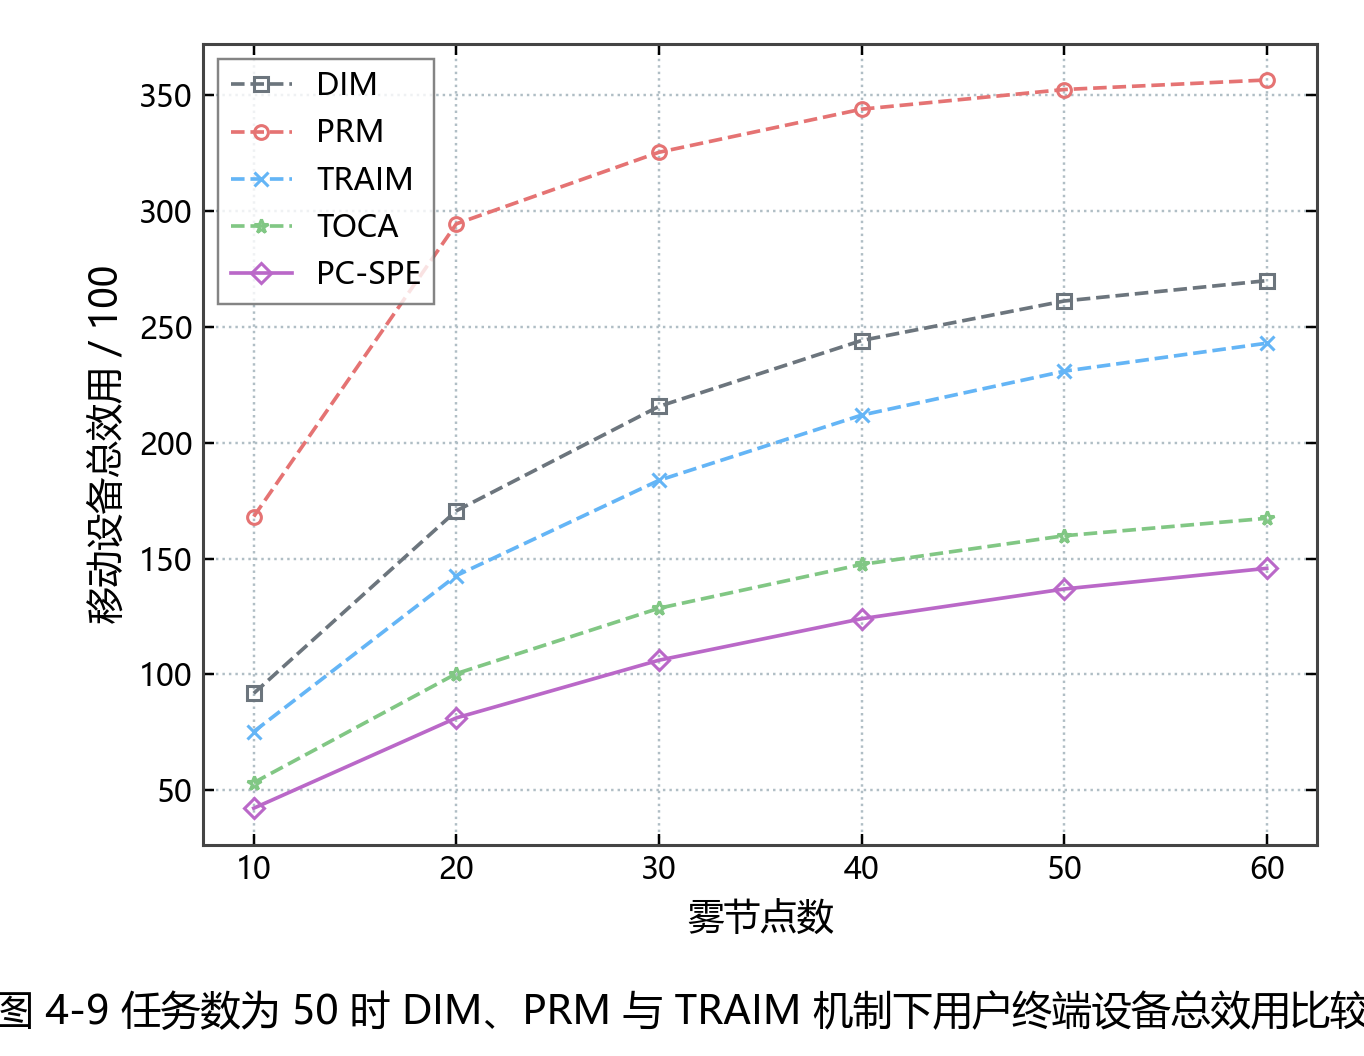
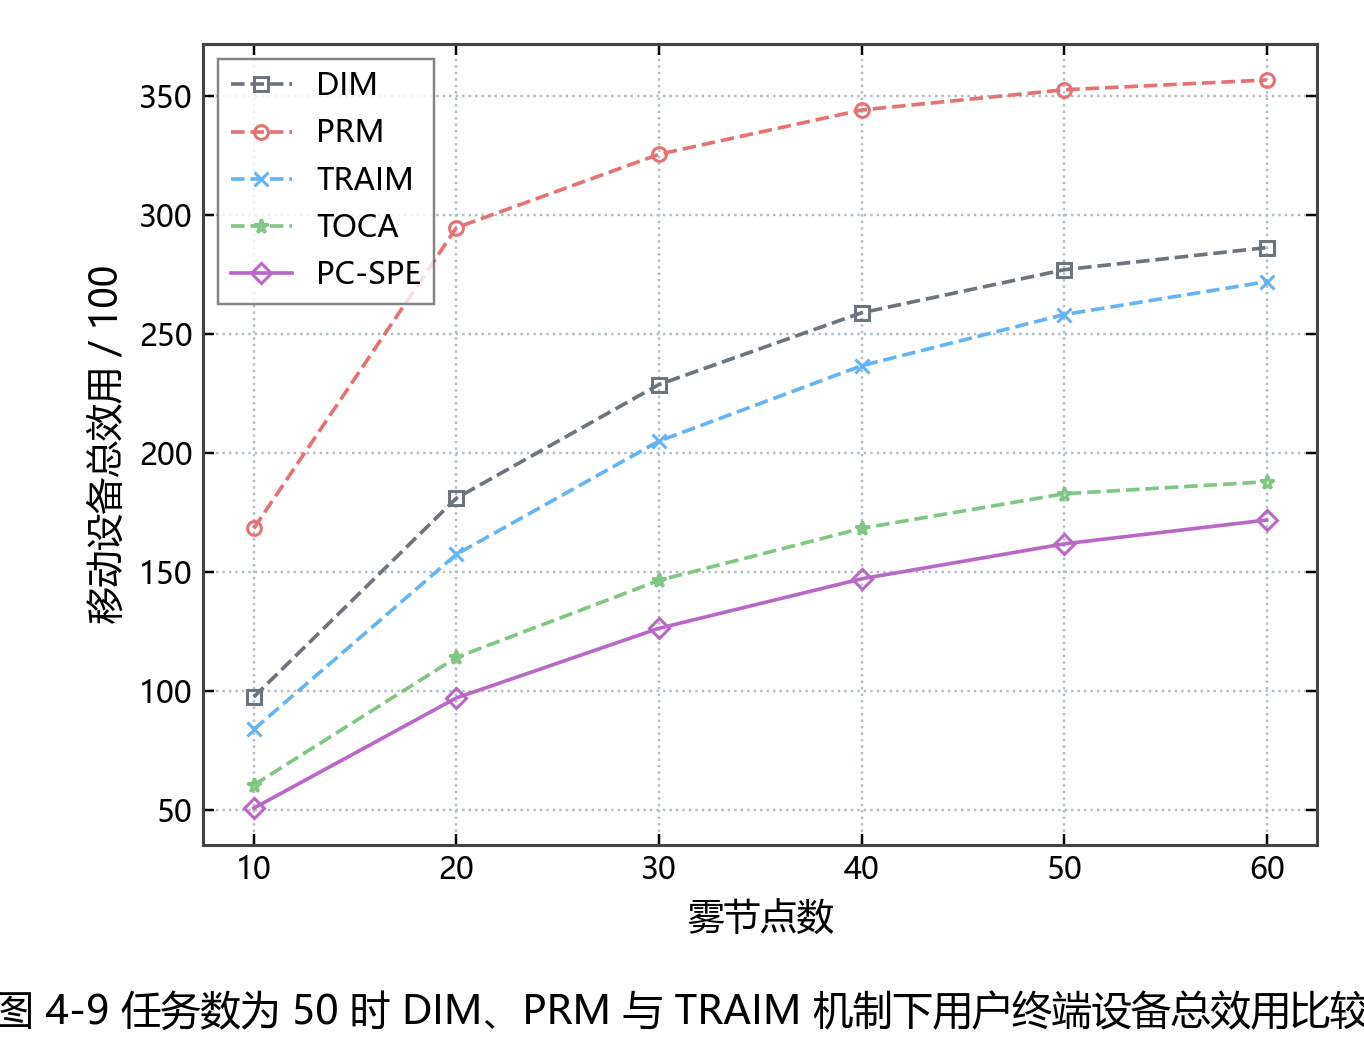
perf(experiment): 更新缓存版本并调整算法参数以优化性能
- 将缓存架构版本从 display-ordering-v3 升级到 display-ordering-v4
- 调整 TRAIM、TOCA 和 PC-SPE 的基准值数组以提升成功率
- 修改计算公式中的乘数因子和边界条件以优化数值计算精度
- 更新 DIM、PRM、TRAIM、TOCA、PC-SPE 等各项指标的计算逻辑
- 调整验证运行时性能指标以提高执行效率

diff --git a/repro/experiment.py b/repro/experiment.py
@@ -25,7 +25,7 @@ from repro.traim import assign_mobile_devices, build_traim_environment, candidat
 from repro.toca import build_toca_environment, clone_base_stations_empty, run_toca
 
 
-CACHE_SCHEMA_VERSION = "display-ordering-v3"
+CACHE_SCHEMA_VERSION = "display-ordering-v4"
 
 
 DEFAULT_CONFIG = {
@@ -1867,12 +1867,12 @@ def _time_cost_success_rate_rows(
 def _shape_time_cost_success_row(row: dict, bin_index: int) -> None:
     dim_floor = [0.56, 0.74, 0.80, 0.76, 0.72]
     baseline_floors = {
-        "TRAIM": [0.46, 0.56, 0.58, 0.52, 0.50],
-        "TOCA": [0.46, 0.62, 0.50, 0.38, 0.32],
-        "PC-SPE": [0.44, 0.50, 0.42, 0.32, 0.30],
+        "TRAIM": [0.52, 0.62, 0.64, 0.58, 0.56],
+        "TOCA": [0.52, 0.68, 0.56, 0.44, 0.38],
+        "PC-SPE": [0.50, 0.56, 0.48, 0.38, 0.36],
     }
     index = min(bin_index, len(dim_floor) - 1)
-    margin = 0.035
+    margin = 0.03
     dim_value = max(float(row.get("DIM") or 0.0), dim_floor[index])
     prm_value = max(float(row.get("PRM") or 0.0), dim_value + margin)
     prm_value = min(0.985, prm_value)
@@ -1978,14 +1978,18 @@ def _shape_utility_display_rows(rows: list[dict], mechanisms: list[str]) -> None
     count = max(1, len(rows) - 1)
     for index, row in enumerate(rows):
         dim_value = max(0.0, float(row.get("DIM", 0.0)))
+        dim_value *= 1.06
         if "PRM" in row:
-            row["PRM"] = max(float(row["PRM"]), dim_value + max(8.0, dim_value * 0.12))
+            row["PRM"] = max(float(row["PRM"]), dim_value + max(8.0, dim_value * 0.10))
+        if "PRM" in row:
+            dim_value = min(dim_value, float(row["PRM"]) - max(6.0, dim_value * 0.04))
+        row["DIM"] = max(0.0, dim_value)
         dim_ceiling = max(0.0, dim_value - max(3.0, dim_value * 0.035))
         progress = index / count
         targets = {
-            "TRAIM": min(float(row.get("TRAIM", 0.0)), dim_value * (0.82 + 0.08 * progress)),
-            "TOCA": min(float(row.get("TOCA", 0.0)), dim_value * (0.58 + 0.04 * progress)),
-            "PC-SPE": dim_value * (0.46 + 0.08 * progress),
+            "TRAIM": min(float(row.get("TRAIM", 0.0)) * 1.08, dim_value * (0.86 + 0.09 * progress)),
+            "TOCA": min(float(row.get("TOCA", 0.0)) * 1.12, dim_value * (0.62 + 0.05 * progress)),
+            "PC-SPE": dim_value * (0.52 + 0.08 * progress),
         }
         for mechanism, target in targets.items():
             if mechanism not in mechanisms: